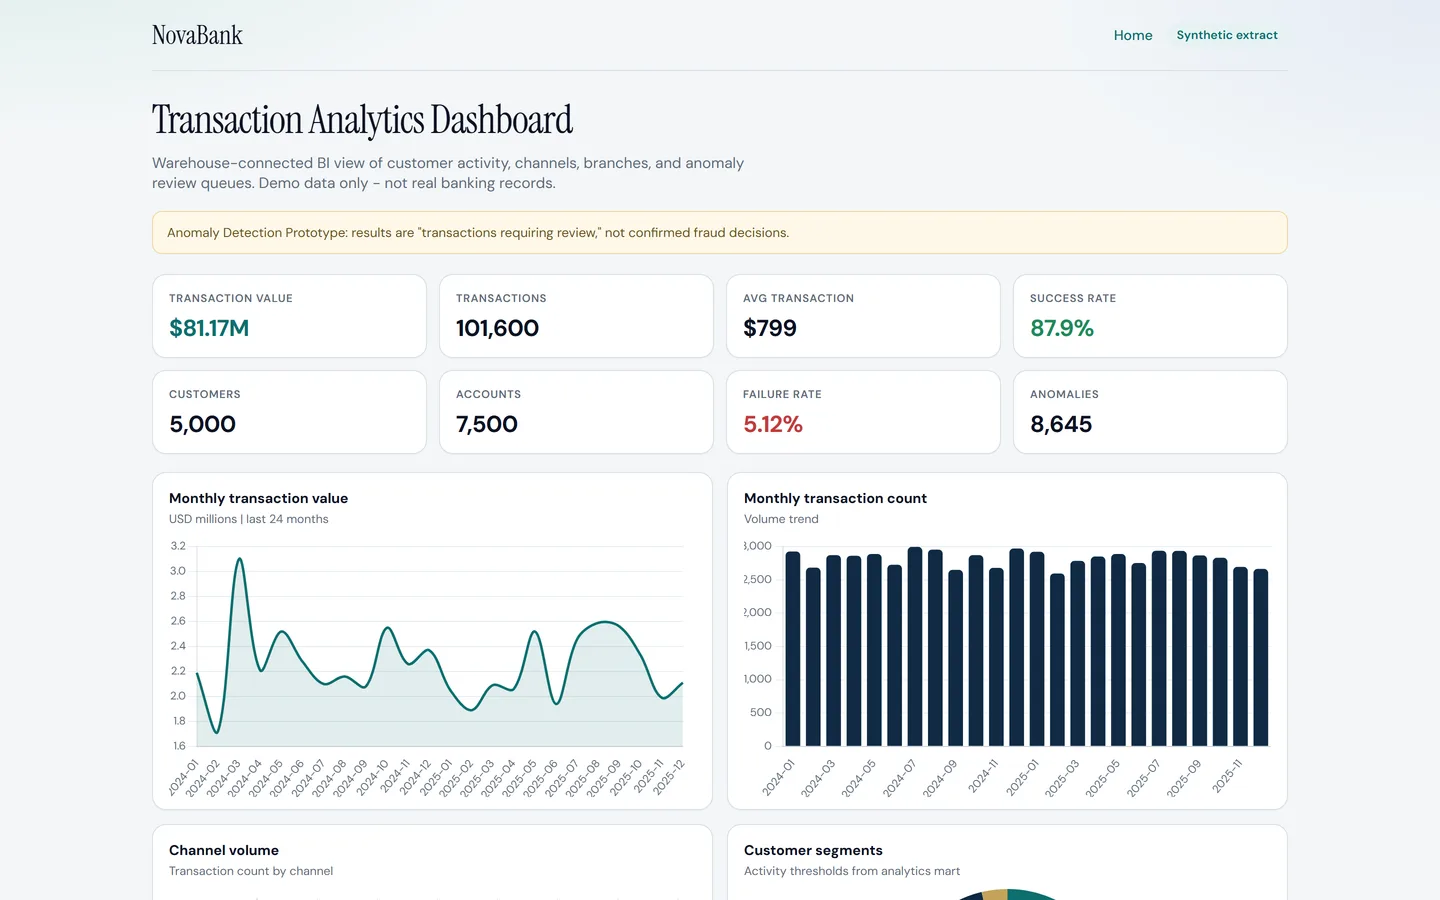
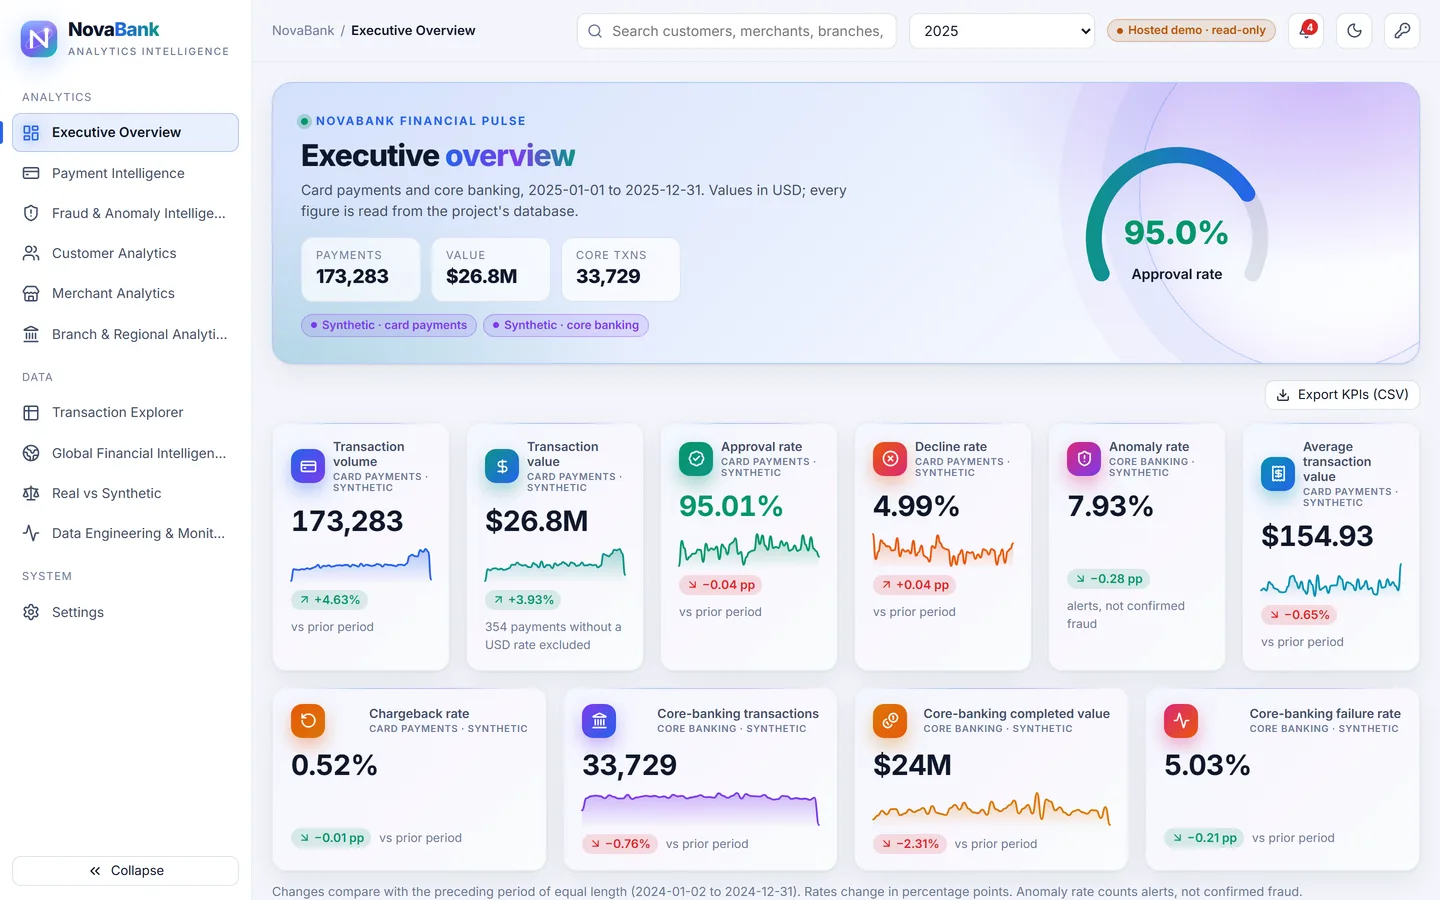
Update NovaBank link and details, and move it to sixth in data science projects.

diff --git a/src/data/content.ts b/src/data/content.ts
@@ -322,6 +322,15 @@ export const DATA_PROJECTS = [
     gradient: 'from-teal/30 via-cyan/20 to-indigo/30',
   },
   {
+    name: 'NovaBank Analytics Platform',
+    slug: 'novabank',
+    url: 'https://banking-transaction-analytics.vercel.app/app/overview',
+    description:
+      'Fictional-bank analytics platform — synthetic core-banking and 493K card-payment data (labelled as such) in a PostgreSQL warehouse with dbt (157 tests pass), payment reconciliation, anomaly detection and XGBoost models, plus real SBP / World Bank / BIS analysis, served by FastAPI to an 11-page React dashboard.',
+    tags: ['PostgreSQL', 'dbt', 'Airflow', 'XGBoost', 'FastAPI'],
+    gradient: 'from-indigo/40 via-cyan/20 to-violet/30',
+  },
+  {
     name: 'Pakistan Election Intelligence (PEIP-2024)',
     slug: 'peip-2024',
     url: 'https://pakelection2024.vercel.app/',
@@ -329,15 +338,6 @@ export const DATA_PROJECTS = [
       'Form-45 GE-2024 intelligence platform — Excel/PDF ingestion with OCR, DuckDB/dbt medallion lakehouse, statistical research and unsupervised ML, FastAPI, and a React dashboard for coverage and data-quality investigation.',
     tags: ['Python', 'pandas', 'DuckDB', 'dbt'],
     gradient: 'from-emerald/30 via-teal/20 to-indigo/30',
-  },
-  {
-    name: 'NovaBank Transaction Analytics',
-    slug: 'novabank',
-    url: 'https://banking-transaction-analytics.vercel.app/dashboard',
-    description:
-      'Warehouse-connected banking BI — channel volume, customer segments, branch performance, and a high-severity anomaly review queue.',
-    tags: ['PostgreSQL', 'BI', 'Finance', 'Anomaly Detection'],
-    gradient: 'from-indigo/40 via-cyan/20 to-violet/30',
   },
   {
     name: 'RideFlow Analytics',

diff --git a/scripts/screenshots.js b/scripts/screenshots.js
@@ -97,7 +97,7 @@ const sites = [
   },
   {
     name: 'novabank',
-    url: 'https://banking-transaction-analytics.vercel.app/dashboard',
+    url: 'https://banking-transaction-analytics.vercel.app/app/overview',
     wait: 5000,
     until: 'networkidle',
   },

diff --git a/README.md b/README.md
@@ -25,7 +25,7 @@ npm run dev
 | Football Analytics Platform | [football-analytics-xi.vercel.app](https://football-analytics-xi.vercel.app/) |
 | Pakistan Environmental Analytics | [pakistanenvironmentalanalytics.vercel.app](https://pakistanenvironmentalanalytics.vercel.app/) |
 | RideFlow Analytics | [rideflow-analytics-eight.vercel.app](https://rideflow-analytics-eight.vercel.app/) |
-| NovaBank Transaction Analytics | [banking-transaction-analytics.vercel.app/dashboard](https://banking-transaction-analytics.vercel.app/dashboard) |
+| NovaBank Analytics Platform | [banking-transaction-analytics.vercel.app](https://banking-transaction-analytics.vercel.app/app/overview) |
 | Pakistan E-commerce Analytics | [pakistanecommerce.vercel.app](https://pakistanecommerce.vercel.app/) |
 | AI Market Price Intelligence | [ai-market-price-analysis.vercel.app](https://ai-market-price-analysis.vercel.app/) |
 | Chicken Price Time Series BI | [time-series-analysis-zeta.vercel.app](https://time-series-analysis-zeta.vercel.app/) |
